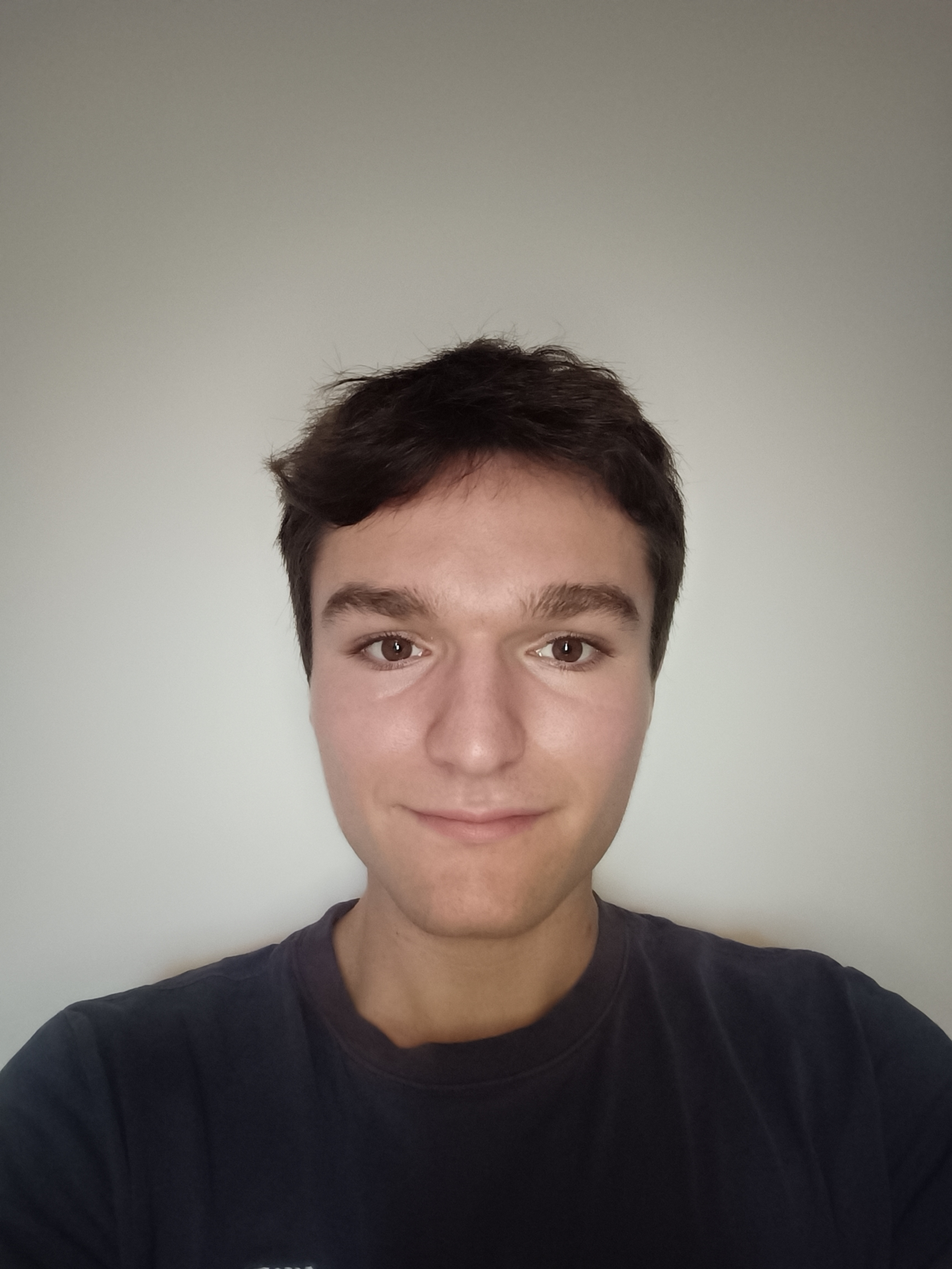
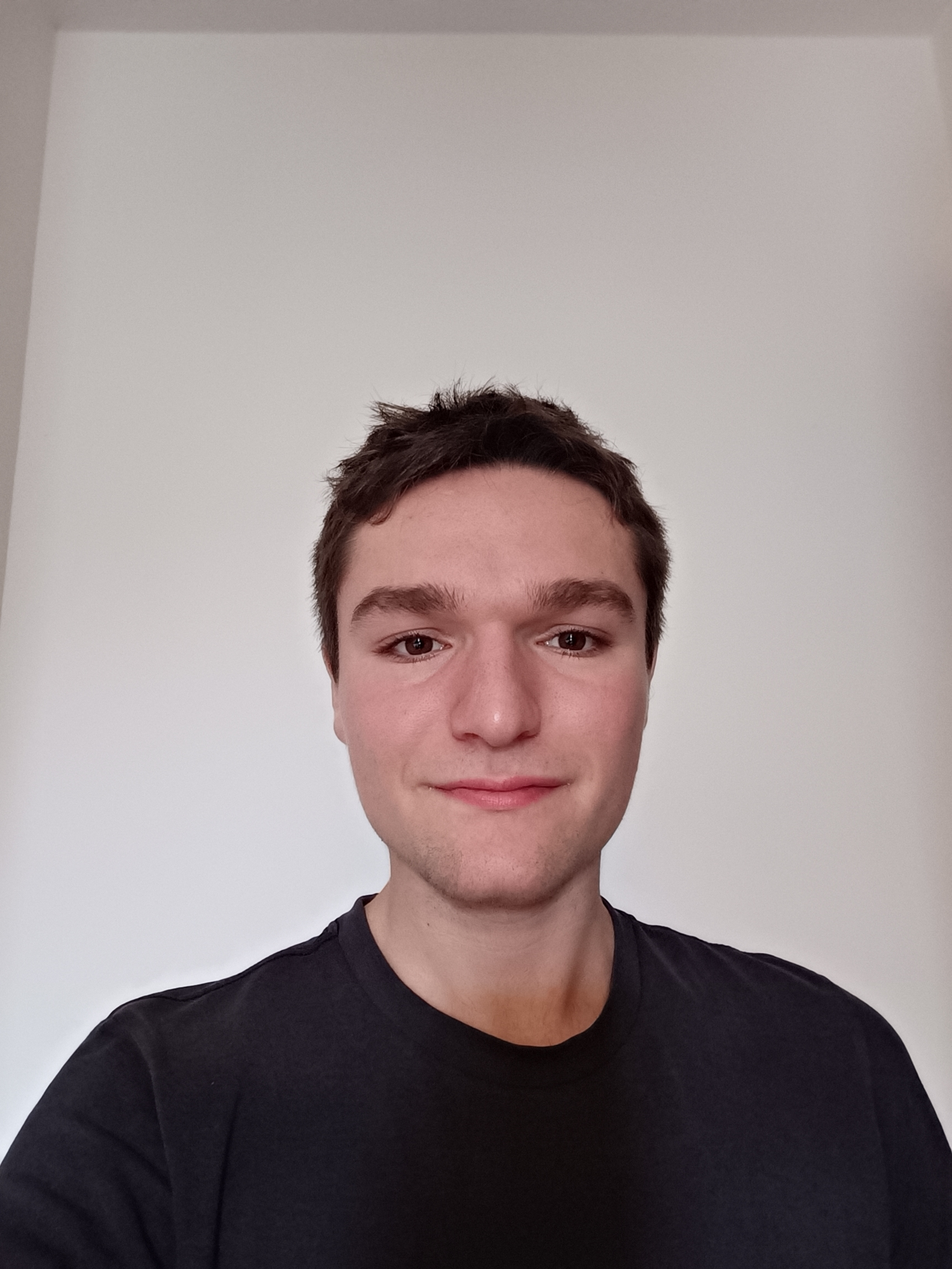
end

diff --git a/index.html b/index.html
@@ -51,7 +51,7 @@
                 </div>
                
                 <div class="hero_img_container">
-                    <img src="/assets/img/hero3.jpg" alt="photo de moi" class="hero_img">
+                    <img src="/assets/img/hero.jpg" alt="photo de moi" class="hero_img">
                 </div>
                 <button class="hero_btn btn-primary" id="second">Prendre contact</button>
             </div>
@@ -109,7 +109,7 @@
                     </div>
                     <div class="skills_item">
                         <p class="skills_title">
-                            React
+                            React Js
                         </p>
                         <i class="fa-brands fa-react"></i>
                     </div>
@@ -117,7 +117,7 @@
                         <p class="skills_title">
                             Jquery
                         </p>
-                        <i class="fa-brands fa-html5"></i>
+                        <img src="assets/img/mdi_jquery.svg">
                     </div>
                 </div>
                 <div class="skills_group">
@@ -129,9 +129,9 @@
                     </div>
                     <div class="skills_item">
                         <p class="skills_title">
-                            Adobe XD
+                            React Native
                         </p>
-                        <i class="fa-brands fa-html5"></i>
+                        <i class="fa-brands fa-react"></i>
                     </div>
                     <div class="skills_item">
                         <p class="skills_title">
@@ -139,7 +139,7 @@
                         </p>
                         <i class="fa-brands fa-figma"></i>
                     </div>
-                    <div class="skills_item">
+                    <div class="skills_item more">
                         <p class="skills_title">
                             Wordpress
                         </p>

diff --git a/assets/scss/input.scss b/assets/scss/input.scss
@@ -64,7 +64,7 @@ p {
     gap: 50px;
     align-items: center;
     @media(min-width: $desktop) {
-        padding: 50px 20vw;
+        padding: 100px 20vw;
     }
 }
 
@@ -361,8 +361,14 @@ p {
             transform: scale(3);
         }
     }
+    img {
+        width: 36px;
+        height: 36px;
+        position: absolute;
+        top: 74px;
+    }
     @media(min-width: $desktop) {
-        padding: 50px 10vw;
+        padding: 100px 10vw;
         &_list {
             margin: 0;
             justify-content: center;
@@ -455,12 +461,12 @@ p {
         justify-content: center;
         align-items: center;
         &_image { 
-            width: 100%;
-            height: 85%;
+            width: auto;
+            height: 80%;
         }
     }
     @media(min-width: $desktop) {
-        padding: 50px 10vw;
+        padding: 100px 10vw;
         &_slider {
             width: 100%;
             display: flex;

diff --git a/assets/css/output.css b/assets/css/output.css
@@ -58,7 +58,7 @@ p {
 }
 @media (min-width: 1200px) {
   .about, .contact {
-    padding: 50px 20vw;
+    padding: 100px 20vw;
   }
 }
 
@@ -315,9 +315,15 @@ p {
 .skills_item i {
   transform: scale(3);
 }
+.skills img {
+  width: 36px;
+  height: 36px;
+  position: absolute;
+  top: 74px;
+}
 @media (min-width: 1200px) {
   .skills {
-    padding: 50px 10vw;
+    padding: 100px 10vw;
   }
   .skills_list {
     margin: 0;
@@ -396,12 +402,12 @@ p {
   align-items: center;
 }
 .projects_item_img_container_image {
-  width: 100%;
-  height: 85%;
+  width: auto;
+  height: 80%;
 }
 @media (min-width: 1200px) {
   .projects {
-    padding: 50px 10vw;
+    padding: 100px 10vw;
   }
   .projects_slider {
     width: 100%;
